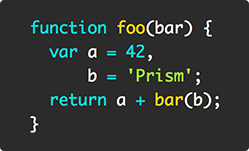
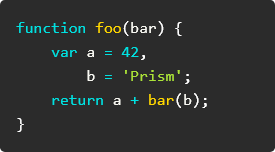
Added automated screenshot task

diff --git a/gulpfile.js b/gulpfile.js
@@ -1,0 +1,36 @@
+const fs = require('fs');
+const captureWebsite = require('capture-website');
+
+
+const themesDir = __dirname + '/themes';
+const screenshotDir = __dirname + '/screenshots';
+
+async function screenshotAllThemes() {
+	const themes = fs.readdirSync(themesDir).map(f => (/^.+(?=\.css$)/.exec(f) || [''])[0]).filter(f => f);
+
+	for (const theme of themes) {
+		await screenshotTheme(theme);
+	}
+}
+
+async function screenshotTheme(theme) {
+	const file = `${screenshotDir}/${theme}.png`;
+	if (fs.existsSync(file)) {
+		fs.unlinkSync(file);
+	}
+
+	await captureWebsite.file(screenshotDir + '/code.html', file, {
+		defaultBackground: false,
+		styles: [
+			fs.readFileSync(`${themesDir}/${theme}.css`, 'utf-8')
+		],
+
+		beforeScreenshot: async (page, browser) => {
+			const box = await page.$('pre').then(e => e.boxModel());
+
+			await page.setViewport({ width: box.width, height: box.height, deviceScaleFactor: 1 });
+		}
+	});
+}
+
+exports.screenshot = screenshotAllThemes;

diff --git a/screenshots/code.html b/screenshots/code.html
@@ -1,0 +1,34 @@
+<!DOCTYPE html>
+<html>
+
+<head>
+	<title>The code page for screenshots</title>
+	<!-- <link rel="stylesheet" href="../themes/prism-dracula.css"> -->
+
+	<style>
+		body {
+			margin: 0 !important;
+		}
+
+		pre {
+			margin: 0 !important;
+
+			/* This is a trick to get all images the same width */
+			display: table !important;
+			min-width: 275px;
+			box-sizing: border-box;
+		}
+	</style>
+</head>
+
+<body>
+	<pre><code class="language-javascript">function foo(bar) {
+	var a = 42,
+	    b = 'Prism';
+	return a + bar(b);
+}</code></pre>
+
+	<script src="https://prismjs.com/prism.js"></script>
+</body>
+
+</html>

diff --git a/README.md b/README.md
@@ -35,7 +35,7 @@ To use one of the themes, just include the theme's CSS file in your page. Exampl
 [![Xonokai](screenshots/prism-xonokai.png)](themes/prism-xonokai.css)
 
 * [__Ateliersulphurpool-light__](themes/prism-base16-ateliersulphurpool.light.css) (by [Bram de Haan](https://github.com/atelierbram))<br />
-[![Ateliersulpherpool-light](screenshots/prism-ateliersulphurpool-light.png)](themes/prism-base16-ateliersulphurpool.light.css)
+[![Ateliersulpherpool-light](screenshots/prism-base16-ateliersulphurpool.light.png)](themes/prism-base16-ateliersulphurpool.light.css)
 
 * [__Hopscotch__](themes/prism-hopscotch.css) (by [Jan T. Sott](https://github.com/idleberg))<br />
 [![Hopscotch](screenshots/prism-hopscotch.png)](themes/prism-hopscotch.css)
